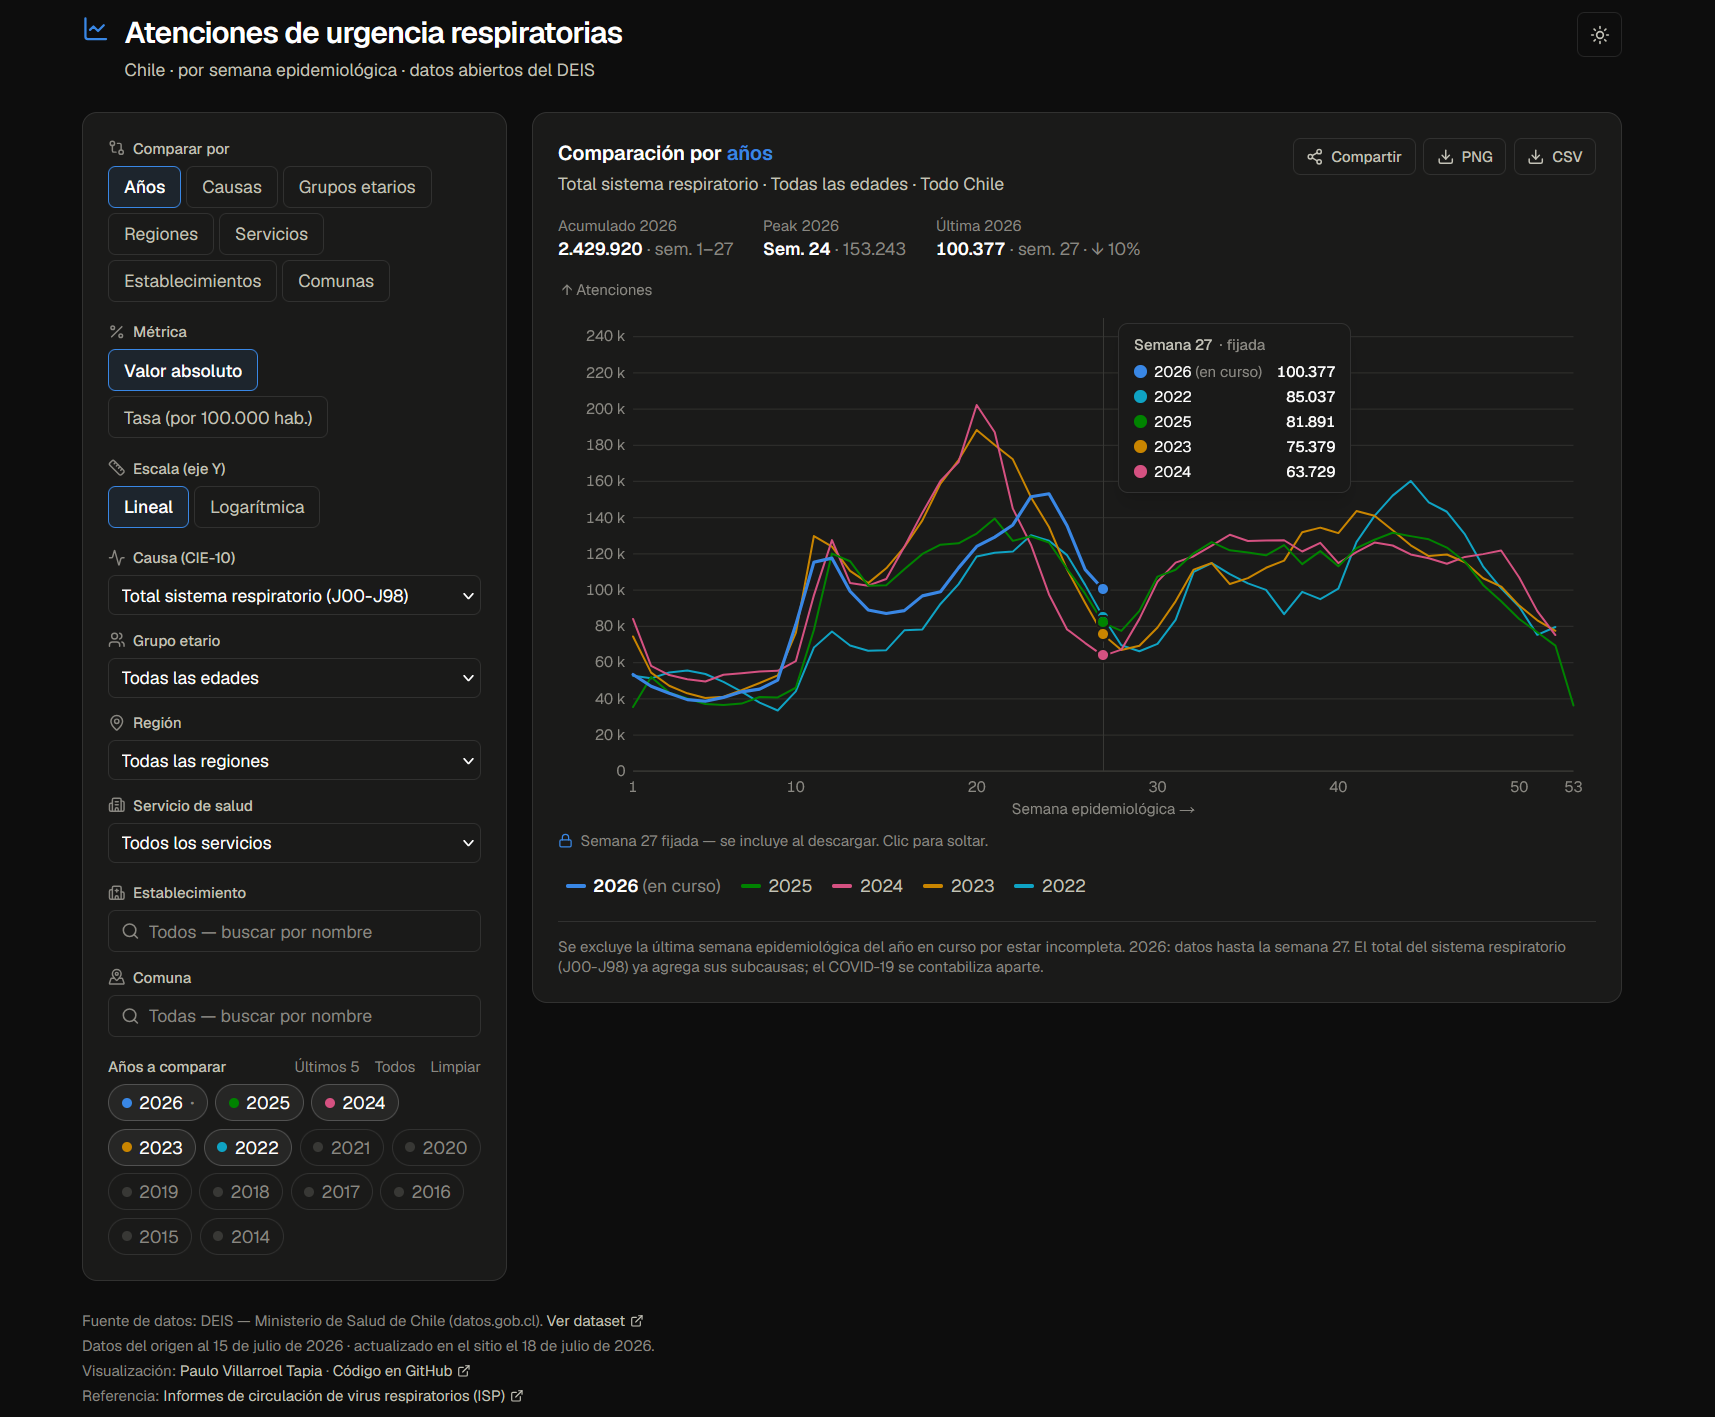
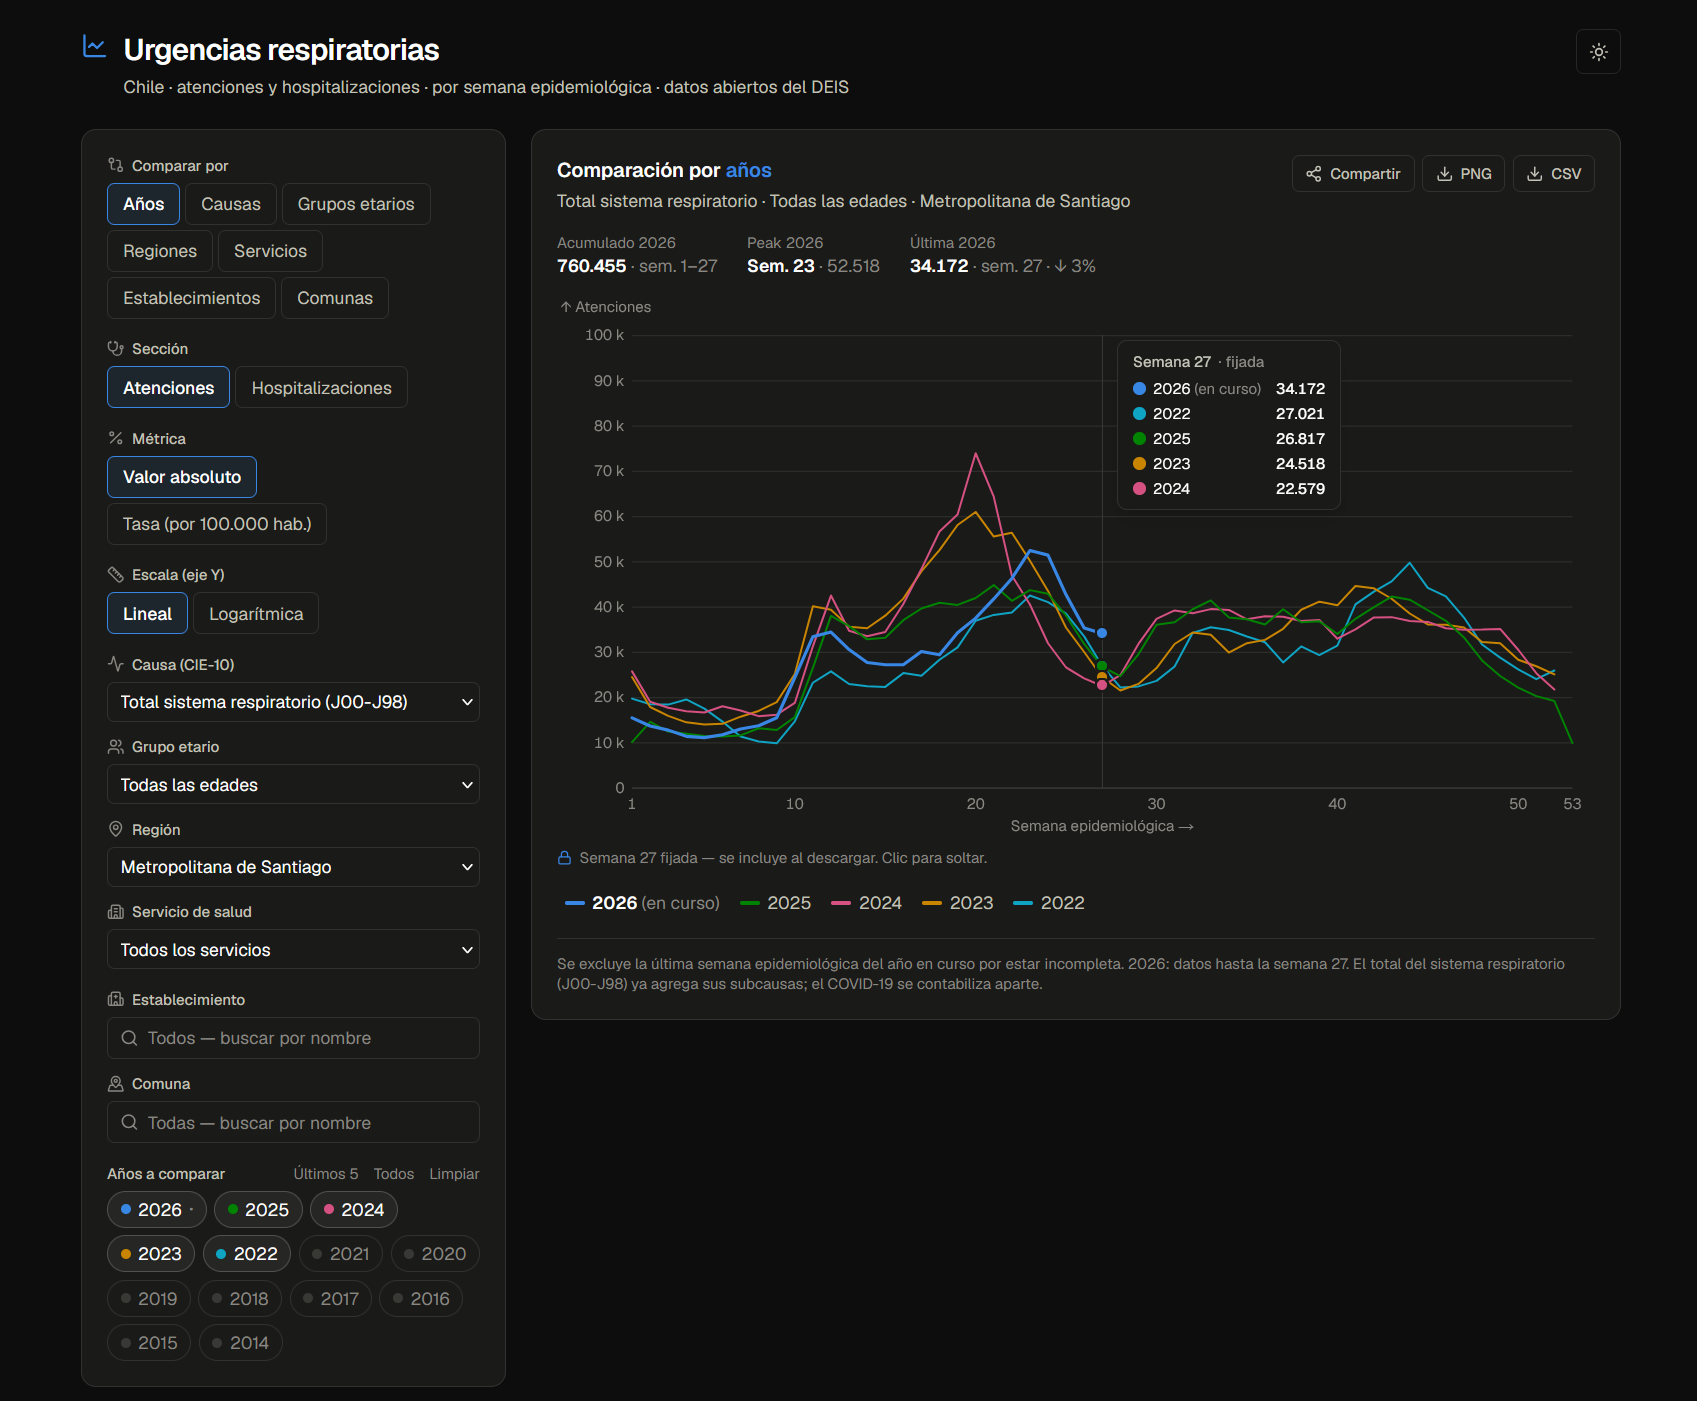
README: actualizar al estado actual + captura nueva
Refleja las features vigentes (establecimientos/comunas vía DuckDB-WASM,
hospitalizaciones, tasas comunales, escala log, compartir por enlace, PNG/CSV)
y reemplaza la captura por una con el título nuevo "Urgencias respiratorias".

diff --git a/README.md b/README.md
@@ -1,30 +1,46 @@
 # Urgencias respiratorias en Chile
 
-Visualizador web de las **atenciones y hospitalizaciones de urgencia por causas respiratorias** en Chile,
-por semana epidemiológica. Permite **comparar por cualquier dimensión** —años, causas
-(CIE-10), grupos etarios, regiones o servicios de salud— con las demás como filtro de
-contexto, ver **tasas por 100.000 habitantes** (al comparar años, regiones o
-servicios de salud, ajustadas por grupo etario y área), y **exportar el gráfico como
-imagen (PNG)** con etiquetas directas. Sitio
-estático que se **actualiza a diario** desde los datos abiertos del DEIS (Ministerio
-de Salud).
+Visualizador web de las **atenciones y hospitalizaciones de urgencia por causas
+respiratorias** en Chile, por semana epidemiológica. Permite:
+
+- **Comparar por cualquier dimensión** —años, causas (CIE-10), grupos etarios,
+  regiones, servicios de salud, **establecimientos** o **comunas**— con las demás
+  como filtro de contexto.
+- Alternar entre **atenciones** y **hospitalizaciones** (toggle de *Sección*).
+- Ver **tasas por 100.000 habitantes** (al comparar años, regiones, servicios o
+  comunas, ajustadas por grupo etario y área).
+- Cambiar el eje Y entre escala **lineal y logarítmica**.
+- **Resaltar** una serie entre muchas (pasar el cursor por la leyenda; clic para
+  fijarla).
+- **Compartir** la vista por enlace (los filtros viven en la URL) y **exportar** a
+  **PNG** o **CSV**.
+
+Sitio estático que se **actualiza a diario** desde los datos abiertos del DEIS
+(Ministerio de Salud).
 
 **[▶ Ver el visor en vivo](https://paulovillarroel.github.io/atenciones-urgencia/)**
 
-![Visor de atenciones de urgencia respiratorias en Chile — comparación por años](docs/captura.png)
+![Urgencias respiratorias en Chile — comparación por años](docs/captura.png)
 
 - **Fuente:** [Atenciones de urgencia – causas respiratorias](https://datos.gob.cl/dataset/atenciones-de-urgencia-causas-respiratorias) (datos.gob.cl / DEIS).
-- **Gráfico:** eje X = semana epidemiológica, eje Y = volumen de atenciones; una línea por cada valor de la dimensión que elijas comparar.
-- **Stack:** Next.js 16 (export estático) · React 19 · Tailwind v4 · Observable Plot · DuckDB (pipeline).
+- **Gráfico:** eje X = semana epidemiológica, eje Y = volumen de atenciones u
+  hospitalizaciones (o su tasa); una línea por cada valor de la dimensión que compares.
+- **Stack:** Next.js 16 (export estático) · React 19 · Tailwind v4 · Observable Plot ·
+  DuckDB (pipeline en Node + DuckDB-WASM en el navegador).
 
 ## Cómo funciona
 
 1. Un script (`scripts/build-data.mjs`) descarga el parquet del DEIS (~67 MB) y con
-   **DuckDB** lo limpia y lo **pre-agrega** a un archivo compacto (~1 MB) que se
-   guarda en `public/data/`.
-2. La app estática (Next.js `output: "export"`) carga ese archivo en el navegador y
-   **filtra y grafica del lado del cliente** (sin servidor, sin descargar los 67 MB).
-3. Una **GitHub Action** repite los pasos 1 y 2 **cada día** y publica en GitHub Pages.
+   **DuckDB** lo limpia y lo **pre-agrega** a un JSON columnar compacto en
+   `public/data/` (grano: año × semana × región × servicio × causa).
+2. La app estática (Next.js `output: "export"`) carga ese JSON y **filtra y grafica
+   del lado del cliente** (sin servidor, sin bajar los 67 MB).
+3. Las dimensiones finas —**establecimiento** y **comuna**, que son cientos— no caben
+   pre-agregadas: se consultan en el navegador con **DuckDB-WASM** sobre un
+   `detalle.parquet` leído por rangos HTTP, con búsqueda por texto.
+4. El estado de los filtros vive en la **URL**, así cada vista es enlazable y compartible.
+5. Una **GitHub Action** repite el pipeline y publica en GitHub Pages **cada día**
+   (y en cada push).
 
 ## Desarrollo local
 
@@ -56,14 +72,20 @@ npm run lint
 
 El workflow calcula solo el *base path*: en una **página de proyecto** el sitio queda
 en `https://<usuario>.github.io/<repo>/`; en una página de usuario
-(`<usuario>.github.io`) queda en la raíz.
+(`<usuario>.github.io`) queda en la raíz. La URL absoluta que usan las tarjetas
+sociales (Open Graph) está en `app/layout.tsx` (constante `SITIO`).
 
 ## Decisiones sobre los datos
 
+- **Atenciones y hospitalizaciones.** El dataset trae, además de las atenciones de
+  urgencia (`OrdenCausa` 3–11), cuántas derivaron en **hospitalización**
+  (`OrdenCausa` 33/34/35, prefijo `- `: total respiratorio + dos tipos de COVID). El
+  toggle *Sección* cambia entre ambas: distinto set de causas y etiqueta del eje.
 - **Semana incompleta.** Se descarta la última semana epidemiológica del año en curso
   por estar incompleta. En el año en curso la semana 53 es la *primera* (arrastre de
   inicio de enero), así que "última" es la de mayor número del bloque contiguo 1..N,
-  no la 53. La regla es dinámica (no hay años fijados en el código).
+  no la 53. La regla es dinámica (no hay años fijados en el código). El eje X llega
+  hasta la última semana con datos (evita media cancha vacía en el año en curso).
 - **Sin doble conteo.** `OrdenCausa = 3` (*Total sistema respiratorio, J00-J98*) ya es la
   suma de sus subcausas (4–9); el COVID-19 (10/11) se contabiliza aparte. El gráfico
   nunca suma sobre todas las causas.
@@ -73,41 +95,32 @@ en `https://<usuario>.github.io/<repo>/`; en una página de usuario
   solo en el total nacional ("Todas"), no como opción filtrable.
 - **Grupos etarios.** El dato trae los conteos por edad en columnas anchas
   (`<1`, `1–4`, `5–14`, `15–64`, `≥65`); el filtro de grupo etario selecciona la columna.
-- **Tasas por 100.000 hab.** Al comparar **años, regiones o servicios de salud** se
-  puede cambiar de valor absoluto a tasa. El denominador se **ajusta al contexto**:
-  al grupo etario elegido (población por banda de edad) y al área geográfica (región
-  o servicio seleccionado, o total país al comparar años). Población **territorial
-  (residente) del INE** (Estimaciones y Proyecciones 2002–2035, base Censo 2017),
-  **por año** y por banda etaria (las del DEIS: `<1`, `1–4`, `5–14`, `15–64`, `≥65`).
-  Región y país se agregan directo del cuadro comunal INE; el total por servicio (que
-  no tiene serie etaria oficial) se distribuye por la estructura etaria de su región.
-  No usa población beneficiaria FONASA. La tabla vive en `scripts/poblacion.mjs`.
-
-## Hospitalizaciones (pendiente para v2)
-
-Este mismo dataset trae, además de las atenciones, una serie de **hospitalizaciones**
-como filas con `OrdenCausa` 33, 34 y 35 (las que empiezan con `- `: sistema
-respiratorio y COVID). En v1 se omiten. Para incorporarlas:
-
-1. En `scripts/build-data.mjs`, incluir esos órdenes (hoy el filtro es
-   `ATENCION_ORDENES = [3..11]`) marcándolos como una sección aparte.
-2. Agregar en la interfaz un selector *atenciones ↔ hospitalizaciones* que cambie el
-   conjunto de causas y la etiqueta del eje Y.
+- **Tasas por 100.000 hab.** Al comparar **años, regiones, servicios de salud o
+  comunas** se puede cambiar de valor absoluto a tasa. El denominador se **ajusta al
+  contexto**: al grupo etario elegido (población por banda de edad) y al área
+  geográfica. Población **territorial (residente) del INE** (Estimaciones y
+  Proyecciones 2002–2035, base Censo 2017), **por año** y por banda etaria. Región,
+  comuna y país se agregan del cuadro comunal INE; el total por servicio (sin serie
+  etaria oficial) se distribuye por la estructura etaria de su región. No usa población
+  beneficiaria FONASA. La tabla vive en `scripts/poblacion.mjs` (horneada en el repo:
+  no se regenera en CI).
 
 ## Estructura
 
 ```
-scripts/build-data.mjs   Pipeline de datos (DuckDB): descarga, limpia y pre-agrega
-public/data/             Datos generados (JSON columnar + lookups + meta) — gitignored
-lib/                     Tipos, carga/agregación, colores (paleta), formato
-components/              Dashboard, filtros, gráfico (Observable Plot), tema
-app/                     Next.js App Router (layout, página, estilos)
+scripts/build-data.mjs   Pipeline (DuckDB en Node): descarga, limpia, pre-agrega y escribe detalle.parquet
+scripts/poblacion.mjs    Población INE por año/banda (región, servicio, comuna, país) para tasas
+public/data/             Datos generados (JSON columnar + lookups + meta + detalle) — gitignored
+public/og.png            Imagen de la tarjeta social (Open Graph)
+lib/                     Tipos, carga/agregación, consultas DuckDB-WASM, colores, formato, estado-en-URL
+components/              Dashboard, filtros, gráfico (Observable Plot), buscador, tema
+app/                     Next.js App Router (layout con metadata/OG, página, estilos)
 .github/workflows/       GitHub Action (refresco diario + deploy a Pages)
 ```
 
 ## Créditos
 
-- **Datos de atenciones:** DEIS – Ministerio de Salud de Chile, publicados en datos.gob.cl.
+- **Datos:** DEIS – Ministerio de Salud de Chile, publicados en datos.gob.cl.
 - **Población (para tasas):** INE – Estimaciones y Proyecciones de Población de Chile 2002–2035, base Censo 2017.
 - **Visualización y desarrollo:** [Paulo Villarroel Tapia](https://www.linkedin.com/in/paulovillarroel/).
 - **Inspiración metodológica:** taller de datos abiertos en R, [paulovillarroel/api-datos-gob](https://github.com/paulovillarroel/api-datos-gob).